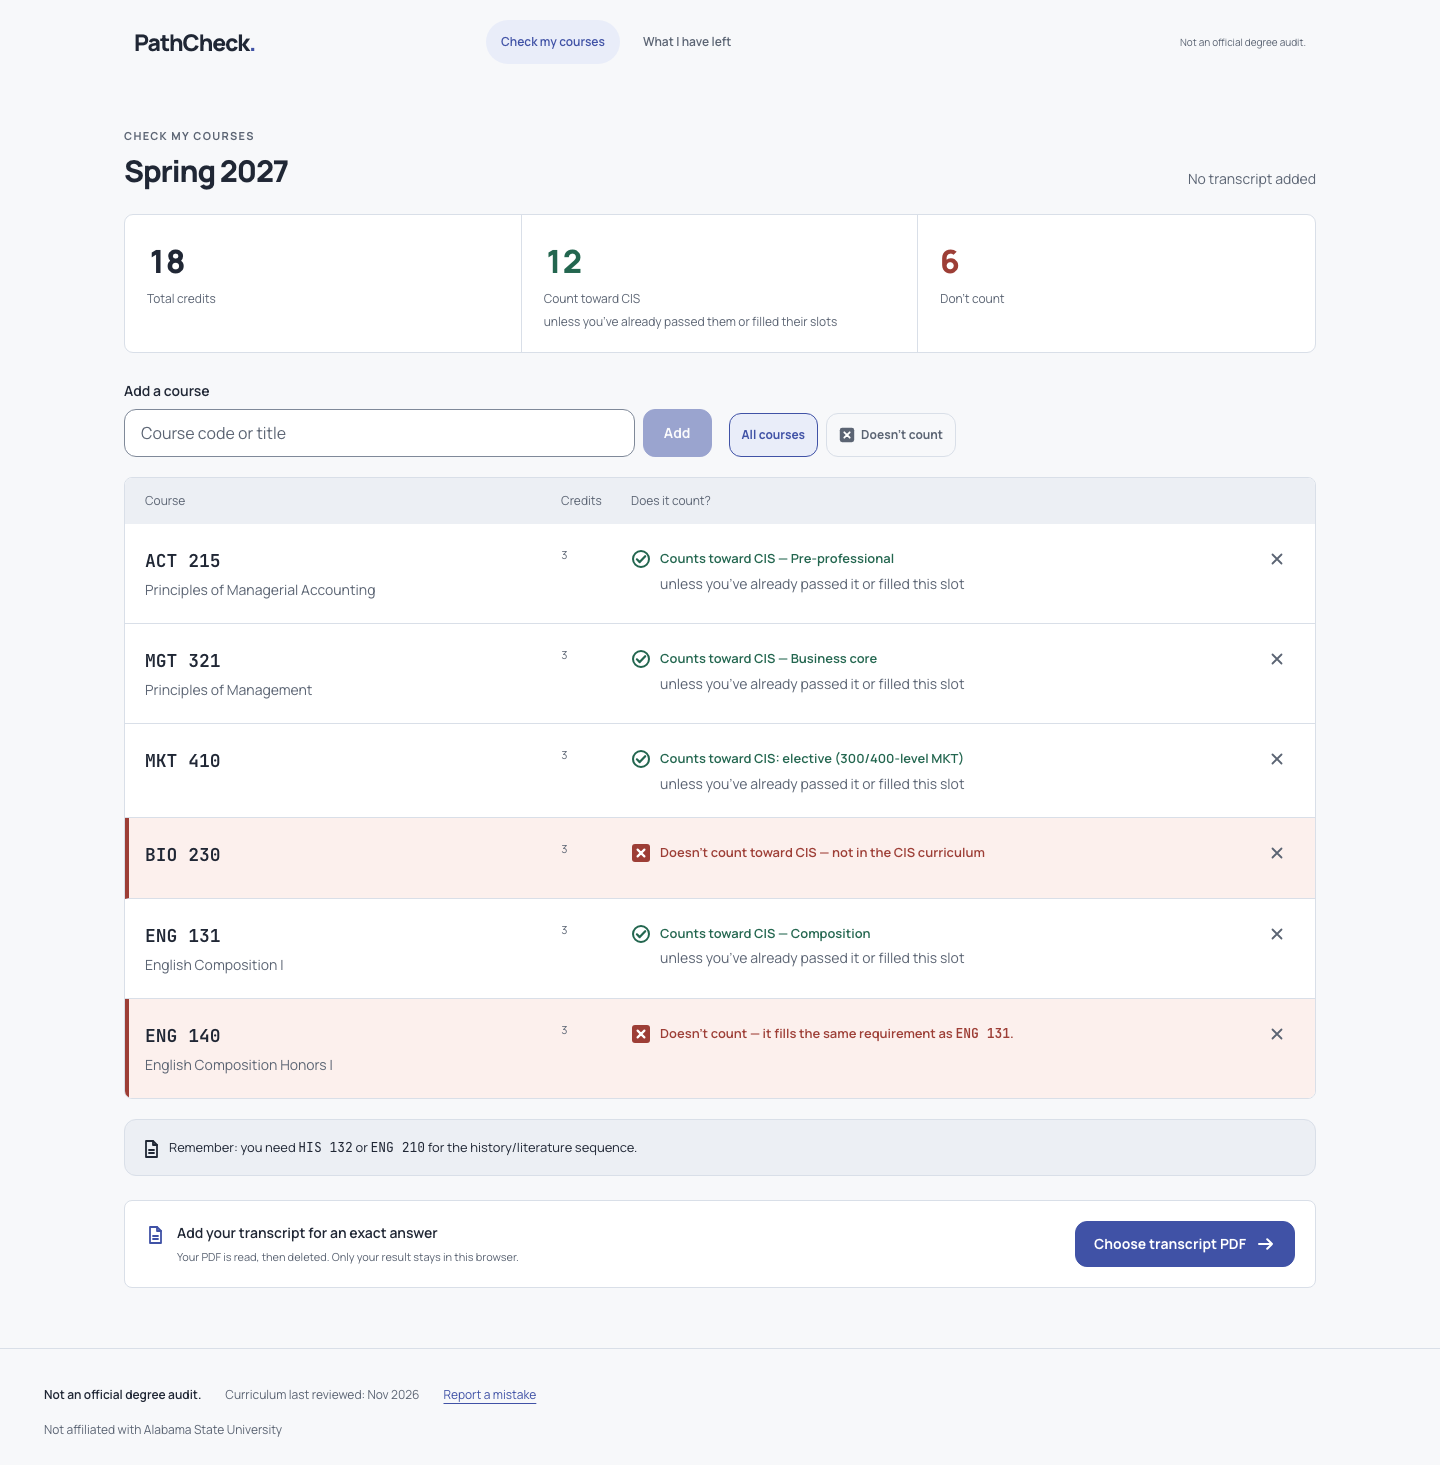
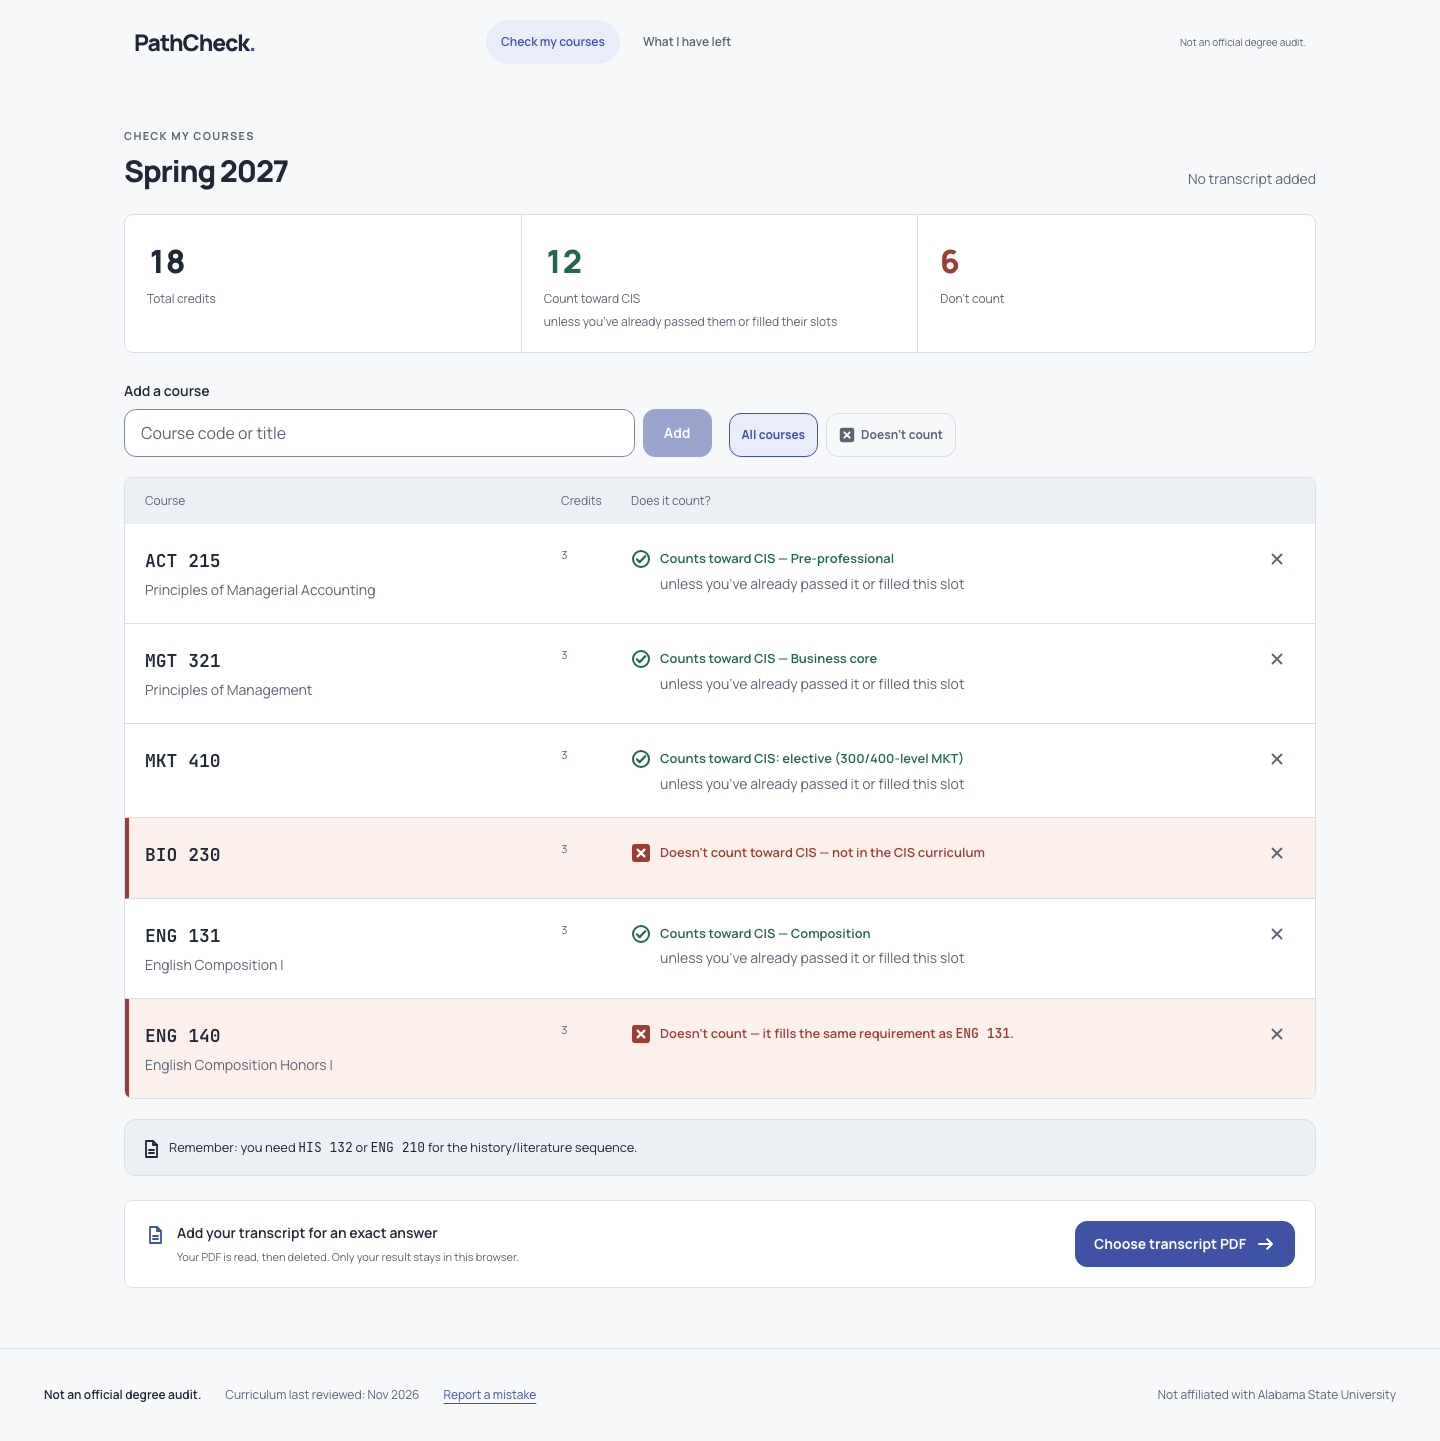
feat(F01): footer line at the right; Show/Hide on every requirement
- "Not affiliated with Alabama State University" sits at the bottom right,
  level with the other three footer items
- In progress and Still needed requirements get the same Show courses /
  Hide courses toggle as Done ones (they start open)
- features.json: F02 and F06 reworded with the owner's approved wording
- decision log, DESIGN.md, contract and screenshots updated

diff --git a/tests/mockups.test.js b/tests/mockups.test.js
@@ -94,6 +94,17 @@ describe('the three mockup pages', () => {
     for (const old of ['a-receipt', 'b-meter', 'c-signs', 'shared.js', 'base.css', 'index.css']) expect(existsSync(join(root, old)), old).toBe(false);
   });
 
+  it('put "Not affiliated…" at the right of the footer, level with the other three lines', () => {
+    const rule = css.match(/\n\.foot \{[^}]*\}/)[0];
+    expect(rule).toMatch(/display: flex;\s*flex-wrap: wrap;\s*justify-content: space-between;\s*align-items: center;/);
+    expect(css).toMatch(/\.foot > p \{ margin: 0; \}/);
+    for (const which of pages) {
+      const footer = page(which).html.match(/<footer class="foot[^"]*">[\s\S]*?<\/footer>/)[0];
+      // Two children: the three lines on the left, then the affiliation line.
+      expect(footer).toMatch(/<footer class="foot[^"]*">\s*<div>[\s\S]*?<\/div>\s*<p>Not affiliated with Alabama State University<\/p>\s*<\/footer>/);
+    }
+  });
+
   it('show the name, the disclaimer and the "on every result" lines on every page', () => {
     for (const which of pages) {
       const { html, text } = page(which);
@@ -345,18 +356,18 @@ describe('page 3: What I have left', () => {
       const [name, credits, status] = expected[i];
       const [counted, needed] = credits.replace(' cr', '').split(' / ').map(Number);
       const done = status === 'Done';
-      const row = decode(item.match(/class="req-row">[\s\S]*?(?=<\/span><\/summary>|<\/div>\s*<div class="req-body">)/)[0].replace('class="req-row">', ''));
-      expect(row.trim(), name).toBe(`${name} ${status} ${credits}${done ? ' Show courses Hide courses' : ''}`);
+      const row = decode(item.match(/class="req-row">[\s\S]*?(?=<\/span><\/summary>)/)[0].replace('class="req-row">', ''));
+      expect(row.trim(), name).toBe(`${name} ${status} ${credits} Show courses Hide courses`);
       // One bar segment per credit; the counted ones are filled.
       const bar = item.match(/<span class="req-bar" aria-hidden="true">((?:<span[^>]*><\/span>)+)<\/span>/)[1];
       expect(bar.match(/<span[^>]*><\/span>/g), name).toHaveLength(needed);
       expect(bar.match(/class="is-counted"/g) ?? [], name).toHaveLength(counted);
-      // Owner, answer d: In progress and Still needed show their courses straight away;
-      // a Done requirement is collapsed and opens with "Show courses".
+      // Owner: every requirement has the Show courses / Hide courses toggle. In progress and
+      // Still needed start open, so what is left shows straight away; Done starts closed.
       expect(item.includes('<details>'), name).toBe(done);
-      expect(item.includes('<summary><span class="req-row">'), name).toBe(done);
-      expect(item.includes('<span class="when-closed">Show courses</span>'), name).toBe(done);
-      expect(item).not.toContain('<details open');
+      expect(item.includes('<details open>'), name).toBe(!done);
+      expect(item).toContain('<summary><span class="req-row">');
+      expect(item).toContain('<span class="when-closed">Show courses</span><span class="when-open">Hide courses</span>');
       expect(item.match(/<div class="req-body">/g), name).toHaveLength(1);
       expect(item.includes({ 'Done': 'mark-done', 'In progress': 'mark-progress', 'Still needed': 'mark-needed' }[status]), name).toBe(true);
     });

diff --git a/mockups/view.js b/mockups/view.js
@@ -304,18 +304,15 @@ const reqBody = b => `
           </div>`;
 const showCue = `<span class="req-show no-print"><span class="when-closed">${esc(left.show)}</span><span class="when-open">${esc(left.hide)}</span>${icons.arrow(16, 'req-cue')}</span>`;
 
-// Owner, 2026-11-15: In progress and Still needed requirements show their courses straight
-// away; a Done requirement is collapsed and opens with "Show courses".
-const requirement = b => b.status === 'Done' ? `
+// Owner, 2026-11-15: every requirement has the same "Show courses" / "Hide courses" toggle.
+// In progress and Still needed requirements start open, so what is left is seen straight
+// away; a Done requirement starts closed.
+const requirement = b => `
       <li class="req">
-        <details>
+        <details${b.status === 'Done' ? '' : ' open'}>
           <summary><span class="req-row">${reqRow(b, showCue)}
           </span></summary>${reqBody(b)}
         </details>
-      </li>` : `
-      <li class="req">
-        <div class="req-row">${reqRow(b, '<span></span>')}
-        </div>${reqBody(b)}
       </li>`;
 
 const planEntry = e => e.choice ? `

diff --git a/mockups/style.css b/mockups/style.css
@@ -224,6 +224,11 @@ svg { display: block; flex-shrink: 0; }
   width: 100%;
   max-width: 1160px;
   margin: auto auto 0;
+  display: flex;
+  flex-wrap: wrap;
+  justify-content: space-between;
+  align-items: center;
+  gap: 4px 24px;
   padding: 24px;
   border-top: 1px solid var(--line);
   color: var(--ink-2);
@@ -233,7 +238,9 @@ svg { display: block; flex-shrink: 0; }
 .foot-wide { max-width: none; }
 .foot > div { display: flex; flex-wrap: wrap; align-items: center; gap: 4px 24px; }
 .foot strong { color: var(--ink); font-weight: 600; }
-.foot > p { margin-top: 3px; }
+/* "Not affiliated…" sits at the right, level with the other three; it drops below them
+   only when the line is too narrow to hold all four. */
+.foot > p { margin: 0; }
 .text-link {
   display: inline-flex;
   align-items: center;

diff --git a/docs/sprints/F01.md b/docs/sprints/F01.md
@@ -24,7 +24,7 @@ http://127.0.0.1:5173/mockups/index.html: `start.html`, `check.html`, `check-typ
 
 These things work: links between pages (the wordmark, the two nav links, "Check my courses"
 and "Browse files" on Start); the demo on Start (it advances, pauses, and jumps to a step);
-"Show courses" / "Hide courses" on the three Done requirements; the − and + of "Fewest" and
+"Show courses" / "Hide courses" on every requirement; the − and + of "Fewest" and
 "Most" credits per term (the number changes and the neutral note appears or goes; the pace
 answer above does not change); "Print / save PDF for your advisor".
 
@@ -64,7 +64,11 @@ Remove, "Choose transcript PDF", Target semester, Summers, "All / Not done", "Mo
   filled their slots".
 - c. The filter says "Doesn't count". No "unconfirmed", no "Can't confirm" answer.
 - d. In progress and Still needed requirements show their courses without a tap. Done
-  requirements are collapsed and open with "Show courses".
+  requirements are collapsed and open with "Show courses". Later the same day: In progress
+  and Still needed requirements have the same "Show courses" / "Hide courses" toggle (they
+  start open).
+- Footer (same day): "Not affiliated with Alabama State University" is at the bottom right,
+  level with the other three footer items.
 - e. Two controls, "Fewest credits per term" (12) and "Most credits per term" (18), both
   editable, no hard limit; neutral notes under 12 and over 18.
 - f. f1: the page-2 table header is normal-case. f2: no legend; the credit bar's parts are
@@ -91,9 +95,9 @@ Remove, "Choose transcript PDF", Target semester, Summers, "All / Not done", "Mo
 - The two credit controls never cross: pushing one past the other takes it along. Neither
   goes below 1 credit, where its "−" is switched off. There is no upper stop.
 - The page-2 table header keeps its quiet grey band; only its text changed to normal case.
-- **Not decided by the agent:** `features.json` F02 and F06 still say there is no
-  multi-major UI and no major picker. Answer a keeps the one-option dropdown, so those two
-  steps need rewording, which needs the owner. Asked in the PR.
+- In progress and Still needed requirements start open; their toggle reads "Hide courses".
+- On a phone the footer's affiliation line drops below the other three, at the left.
+- `features.json` F02 and F06 were reworded with the owner's approved wording (decision log).
 
 ## Acceptance checks
 Automated checks run with `npm test` (`tests/mockups.test.js`). "Browser" is the evaluator
@@ -124,10 +128,11 @@ with Playwright at 1440×900 and 375×667, light and dark (`prefers-color-scheme
    appear nowhere. BIO 230's answer is "Doesn't count toward CIS — not in the CIS
    curriculum". — test, browser.
 7. **Answer d.** Without any tap, each of the six In progress / Still needed requirements
-   shows its Done, In progress and Still needed courses as in the M0 brief. The three Done
-   requirements are collapsed, each with a visible "Show courses" that opens its course
-   list (ORI 100; ENG 131, ENG 132; BIO 127, BIOL 127, BIO 128, BIOL 128, MAT 137) and then
-   reads "Hide courses"; it works with mouse, Enter and Space. — test, browser.
+   shows its Done, In progress and Still needed courses as in the M0 brief, with a "Hide
+   courses" toggle that closes it. The three Done requirements are collapsed, each with a
+   visible "Show courses" that opens its course list (ORI 100; ENG 131, ENG 132; BIO 127,
+   BIOL 127, BIO 128, BIOL 128, MAT 137) and then reads "Hide courses". The toggle works
+   with mouse, Enter and Space on all nine. — test, browser.
 8. **Answer e.** "Fewest credits per term" shows 12 and "Most credits per term" shows 18,
    each with a working − and +. Most goes above 18 with no stop, and from 19 shows "Over 18
    credits: may cost extra."; Fewest below 12 shows "Below 12 credits: below full-time; may
@@ -165,7 +170,8 @@ with Playwright at 1440×900 and 375×667, light and dark (`prefers-color-scheme
     and "Clear my data". 27 + 13 + 81 = 121; each requirement's counted credits equal the
     credits of its Done courses; titles and credits match the curriculum file. — test, browser.
 15. **On every page:** "Curriculum last reviewed: Nov 2026", "Not an official degree audit.",
-    "Report a mistake", "Not affiliated with Alabama State University", the name PathCheck,
+    "Report a mistake", and at the bottom right, at the same height as those three, "Not
+    affiliated with Alabama State University" (on a phone it drops below them); the name PathCheck,
     no university logo or school colors, no "ask your advisor". — test, browser.
 16. **Colors and contrast.** Every color is a token with light, dark and print values, equal
     to the published design's. WCAG AA in light, dark and print: text ≥ 4.5:1 on every
@@ -190,8 +196,9 @@ with Playwright at 1440×900 and 375×667, light and dark (`prefers-color-scheme
     courses", "Move later" or the action buttons, with every requirement's courses shown
     and the ring, bars and tinted rows printed. — test, browser (a real PDF).
 23. **No console errors** and no failed requests on any page. — browser.
-24. **Nothing open is hidden.** PR #4's body is rewritten for this round, in plain language.
-    Its "Conflicts with the brief" section lists only what is still open; the small
+24. **Nothing open is hidden.** PR #4 has a descriptive title, and its body, in plain
+    language, is about adding the design the owner agreed on, which the app's UI is built
+    upon. Its "Conflicts with the brief" section lists only what is still open; the small
     decisions listed above are in the PR for the owner. Anything the evaluator finds that
     conflicts with the brief or with an owner answer and is not in the PR is a defect. The
     pushed head is the commit that was checked. — browser, reviewer, `gh pr view 4`.
@@ -230,6 +237,9 @@ Calibration are not marked as generic or as banned elements.
   the wording of F02 and F06 in `features.json`.
 - Round 4, confirmation pass (commit daf5bbd): PASS; Functionality now 5 (no control does
   nothing silently). Cosmetic note fixed afterwards: "1 credits" now reads "1 credit".
+- After round 4, by the owner's instruction: the footer's affiliation line moved to the
+  right; every requirement got the toggle; F02 and F06 reworded as approved. Checked again
+  (see the last QA line below).
 - For M1 (F14): the pace answer must follow the steppers. In the mockup it does not, so
   with Most set to 12 the page would still say "about 16 credits a term".
 

diff --git a/docs/design/DESIGN.md b/docs/design/DESIGN.md
@@ -23,7 +23,7 @@ is 375 wide.
 |---|---|---|
 | 1 Start | `start-*` | `start-demo-step2…4-light-*`: the other three demo steps |
 | 2 Check my courses | `check-*` | `check-typing-*`: typing "mgt 3", suggestion open, MGT 321 not yet added |
-| 3 What I have left | `left-*` | `left-open-*`: the three Done requirements opened with "Show courses"; `left-notes-*`: Fewest at 11 and Most at 19, both notes showing |
+| 3 What I have left | `left-*` | `left-open-*`: every requirement opened, the three Done ones included; `left-notes-*`: Fewest at 11 and Most at 19, both notes showing |
 
 `docs/design/screens/published/` has the same file names (without `left-notes-*`), taken
 from the published site on 2026-11-15, before the owner's answers. There, `left-open-*`
@@ -160,9 +160,10 @@ Marks are inline SVG drawn in the project (20-unit grid); no icon pack.
 - **Top bar:** wordmark (links to Start); two nav links, "Check my courses" and "What I have
   left", as pills (current page: `--accent` on `--accent-soft`); "Not an official degree
   audit." at the right. Below 650px the nav links are on a second row under the wordmark.
-- **Footer:** top border; "Not an official degree audit." (bold) · "Curriculum last
-  reviewed: Nov 2026" · "Report a mistake" (underlined email link); second line "Not
-  affiliated with Alabama State University". 12px.
+- **Footer:** top border; one line. At the left: "Not an official degree audit." (bold) ·
+  "Curriculum last reviewed: Nov 2026" · "Report a mistake" (underlined email link). At the
+  right, at the same height: "Not affiliated with Alabama State University". 12px. When the
+  line is too narrow for all four (a phone), the affiliation line drops below the others.
 - **Section label (eyebrow):** small uppercase label above a heading.
 - **Buttons:** primary = `--accent` fill; secondary = `--surface` with a `--line-strong`
   border. Arrow icon after the label on buttons that move forward.
@@ -264,13 +265,14 @@ does not.
 **Requirements.** Label "THE REST OF YOUR DEGREE", heading, and an "All / Not done" pill
 toggle at the right; one line: "Credits counted / needed." Nine cards (white, radius 12,
 8px apart). Each has a row with columns `220px 150px 1fr 80px 112px`: name · status mark
-and word · segmented bar · "3 / 12 cr" · (on Done rows) "Show courses".
+and word · segmented bar · "3 / 12 cr" · the toggle "Show courses" / "Hide courses".
+Every requirement has the toggle.
 
-- **In progress and Still needed** requirements show their courses straight away, under the
-  row: up to three columns (Done, In progress, Still needed), each a small titled list of
-  code + title.
-- **Done** requirements are collapsed. "Show courses" opens the list of the courses that
-  filled them; it then reads "Hide courses".
+- **In progress and Still needed** requirements start open, so their courses show straight
+  away, under the row: up to three columns (Done, In progress, Still needed), each a small
+  titled list of code + title. "Hide courses" closes them.
+- **Done** requirements start closed. "Show courses" opens the list of the courses that
+  filled them.
 
 Under the list, a dashed box: "Still needed: HIS 132 or ENG 210 to complete a history or
 literature sequence."
@@ -285,12 +287,11 @@ dashed left edge and the label "OPEN CHOICE". MGT 462 carries "Always the final 
 
 **Phone (375).** One column. The ring (155px) sits above the pace answer; the four pace
 controls stack. The toggle moves under the heading. A requirement row becomes three lines:
-name and status, the bar, then credits (and "Show courses" at the right on Done rows). The
-course lists stack. Each semester is a header band (term left, credits right) over a list
+name and status, the bar, then credits with the toggle at the right. The course lists stack. Each semester is a header band (term left, credits right) over a list
 with "Move later" at the right of each entry. The two action buttons wrap.
 
-**Print.** The top bar, the toggle, "Show courses", "Move later" and the action buttons are
-not printed; every requirement prints opened; the ring, bars and tinted rows are printed;
+**Print.** The top bar, the "All / Not done" toggle, "Show courses" / "Hide courses", "Move
+later" and the action buttons are not printed; every requirement prints opened; the ring, bars and tinted rows are printed;
 the page is white.
 
 ## Differences from the published site
@@ -315,7 +316,9 @@ Each difference comes from the brief or from a dated owner answer in `docs/decis
 - b. The count at the top of page 2 carries its condition when there is no transcript.
 - c. No third answer; the filter says "Doesn't count".
 - d. In progress and Still needed requirements show their courses; Done ones open with
-  "Show courses".
+  "Show courses". Every requirement has the Show / Hide toggle.
+- Footer: "Not affiliated with Alabama State University" at the right, level with the
+  other three items (the published site has it on a second line).
 - e. "Fewest" and "Most" credits per term, both editable, with neutral notes and no hard limit.
 - f. No uppercase grey table header; no legend (the bar is labelled directly). Pill-shaped
   tabs, the indigo main button and the numbered chips are kept.

diff --git a/docs/decision-log.md b/docs/decision-log.md
@@ -201,10 +201,9 @@ They are applied to the mockups and to `docs/design/DESIGN.md`.
   list (pill-shaped tabs, the indigo main button and the numbered chips are approved,
   f3–f5, with the four choices approved earlier the same day). The uppercase grey table
   header and legends stay banned (f1, f2).
-- **Not changed, waiting for the owner:** `features.json` still says "there is no multi-major
-  UI" (F02) and "There is no sign-in, account, advisor screen or major picker" (F06).
-  Answer a keeps a one-option major dropdown, so those two steps need rewording; feature
-  steps are only changed with the owner's approval, so this is asked in PR #4.
+- `features.json` said "there is no multi-major UI" (F02) and "There is no sign-in, account,
+  advisor screen or major picker" (F06), which answer a contradicts. The owner approved new
+  wording for both the same day (next entry).
 - The two credit controls never cross (pushing one past the other takes it along) and
   neither goes below 1 credit. That is how the control behaves, not an academic rule.
 - The owner wrote the major as "B.S. Computer Information Systems"; the published design
@@ -216,6 +215,30 @@ They are applied to the mockups and to `docs/design/DESIGN.md`.
 - `docs/design/screens/` now holds screenshots of the updated mockups, re-taken as the
   owner asked. The screenshots of the published site as it stood before these answers are
   kept beside them in `docs/design/screens/published/`.
+
+### 2026-11-15 — F02 and F06 wording approved; footer and requirement toggles
+
+- **Approved: reword two feature steps** so they agree with answer a (the major dropdown).
+  The owner's final wording, now in `features.json`:
+  - F02: "the only major shown is B.S. Computer Information Systems. The dropdown has no
+    other options (no 'coming soon' or disabled majors)."
+  - F06: "There is no sign-in, account or advisor screen. The major dropdown has one option,
+    B.S. Computer Information Systems, already selected, and no other options (no 'coming
+    soon' or disabled majors)."
+- **Footer.** "Not affiliated with Alabama State University" sits at the bottom right, at
+  the same height as "Not an official degree audit.", "Curriculum last reviewed: Nov 2026"
+  and "Report a mistake".
+- **Requirements.** In progress and Still needed requirements also have the "Show courses" /
+  "Hide courses" toggle, just as Done ones do.
+- **PR #4** gets a descriptive title, and its description is about adding the design the
+  owner agreed on, which the application's UI will be built upon.
+- PR #4 is not merged. The work stops at M0 for the owner's check.
+
+*Agent's notes, not owner decisions:*
+- In progress and Still needed requirements start open, so their courses still show
+  straight away (answer d); the toggle lets the student hide them. Done ones start closed.
+- On a phone the footer line is too narrow for all four items, so "Not affiliated with
+  Alabama State University" drops below the other three, at the left.
 
 ## Milestone checks
 
